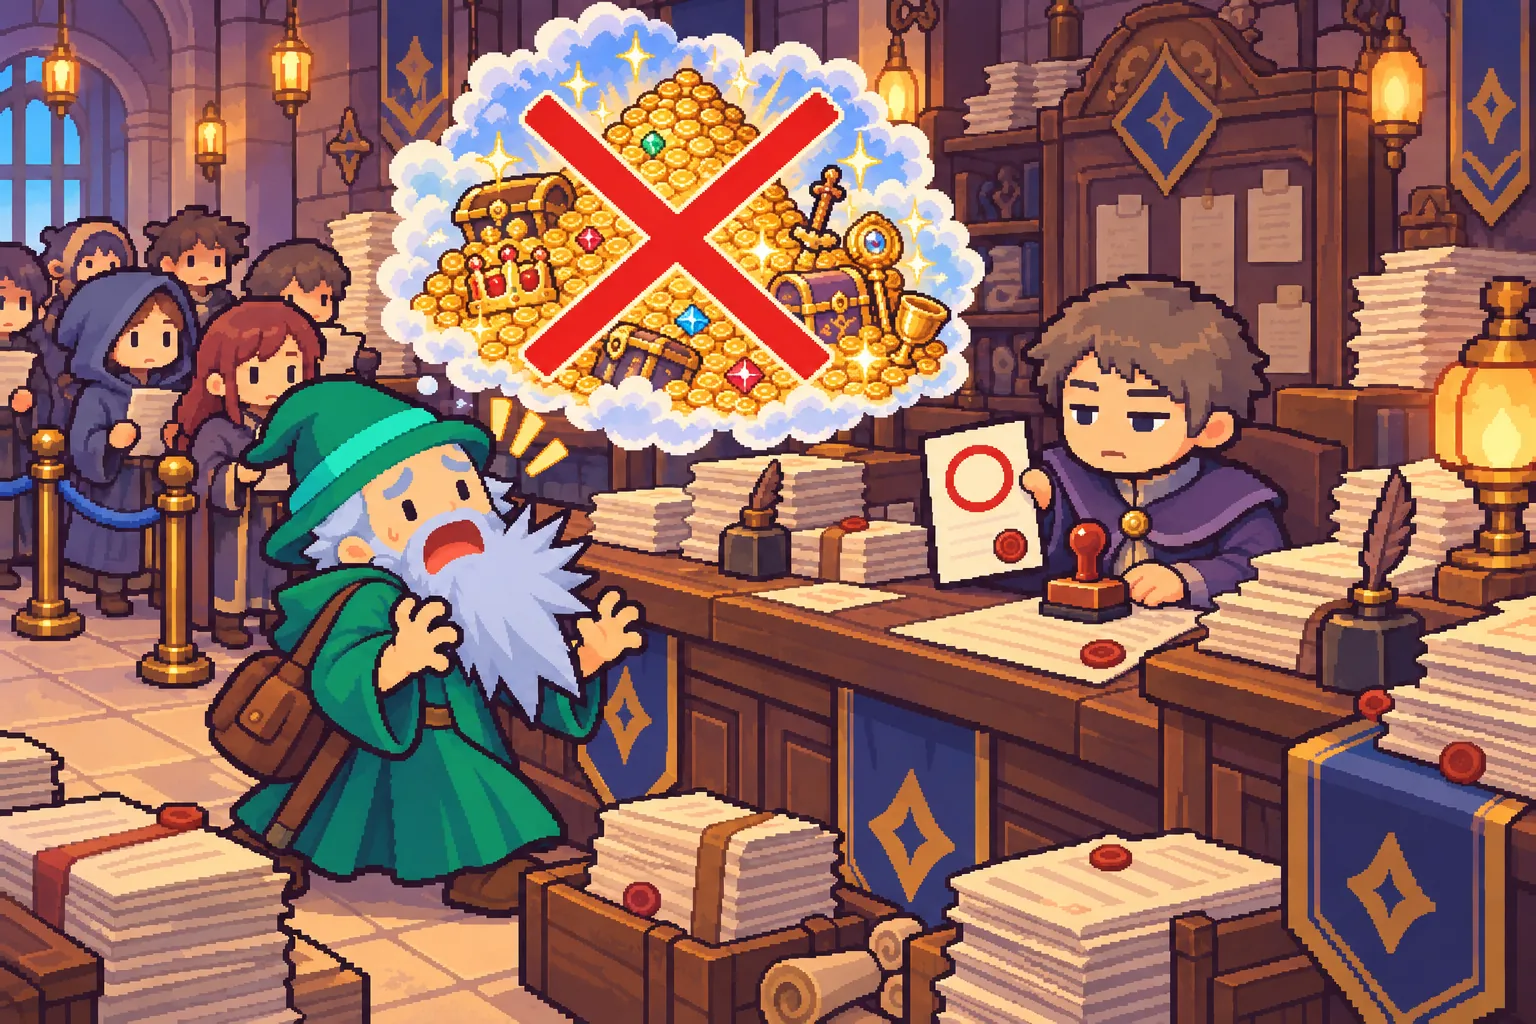
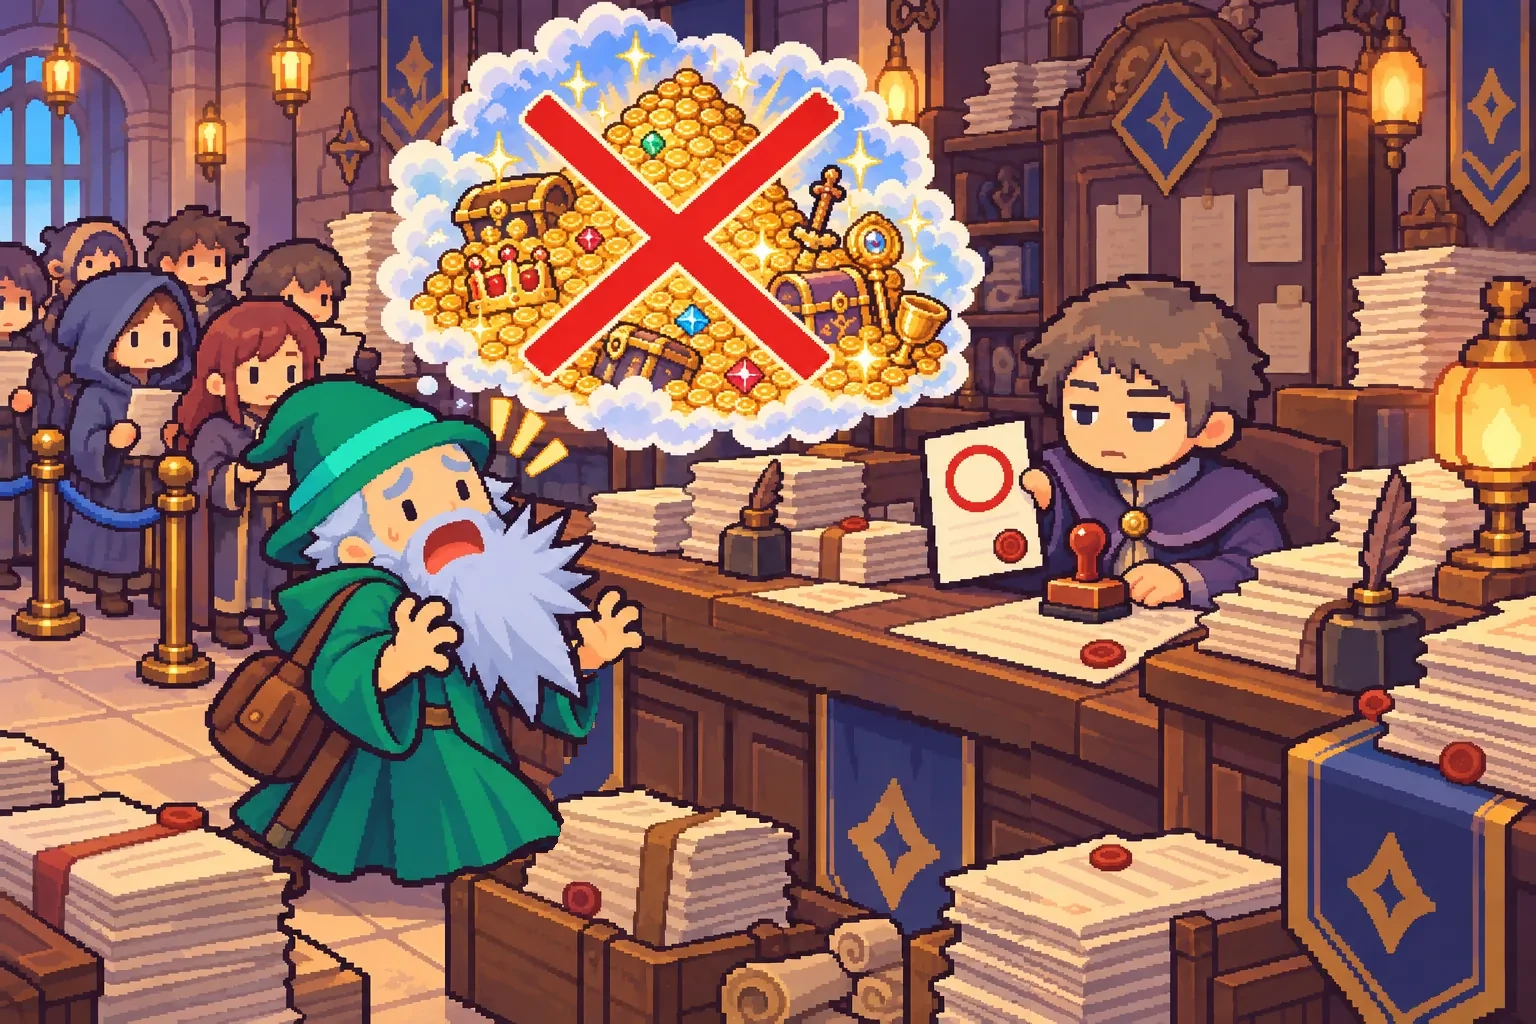
마법사 스토리 4컷: 학회 책상 앞면·깃발·서류 상자를 3컷과 같은 자리로 맞춤 (버전 20261102g)

Changed region(s): [[0.2812, 0.5938, 0.6875, 1.0]]

diff --git a/index.html b/index.html
@@ -8,27 +8,27 @@
   <meta name="mobile-web-app-capable" content="yes" />
   <title>서바이버 게임</title>
   <!-- 브라우저 탭 아이콘 (없으면 브라우저가 favicon.ico 를 찾다가 404 오류를 남김) -->
-  <link rel="icon" type="image/png" href="assets/hero_mage.png?v=20261102f" />
+  <link rel="icon" type="image/png" href="assets/hero_mage.png?v=20261102g" />
   <!-- 픽셀 글꼴: 제목 = Tiny5, 한글 = Galmuri11. 외부 서버 없이 assets/fonts 에서 받음 (style.css 의 @font-face). 미리 받기 시작해서 글자가 빨리 바뀜 -->
-  <link rel="preload" href="assets/fonts/Galmuri11.woff2?v=20261102f" as="font" type="font/woff2" crossorigin />
-  <link rel="preload" href="assets/fonts/Tiny5-Regular.ttf?v=20261102f" as="font" type="font/ttf" crossorigin />
+  <link rel="preload" href="assets/fonts/Galmuri11.woff2?v=20261102g" as="font" type="font/woff2" crossorigin />
+  <link rel="preload" href="assets/fonts/Tiny5-Regular.ttf?v=20261102g" as="font" type="font/ttf" crossorigin />
   <!-- ?v= : 올릴 때마다 바꾸는 버전 표시. 브라우저가 예전 코드·그림을 쓰지 않고 새로 받게 함 (js 의 그림·소리 주소는 js/01-setup.js 가 이 값을 따라 씀. 이 파일과 style.css 의 ?v= 는 모두 같이 바꿀 것) -->
-  <link rel="stylesheet" href="style.css?v=20261102f" />
+  <link rel="stylesheet" href="style.css?v=20261102g" />
 </head>
 <body>
   <!-- 게임이 그려지는 도화지 -->
   <div id="stage">
     <canvas id="game" width="1280" height="720"></canvas>
     <!-- ? 버튼: 무기 조합(진화)표와 무기 설명을 보여주는 도움말 (H 키로도 열림) -->
-    <button type="button" id="helpBtn" title="도움말 (H)"><img src="assets/help.png?v=20261102f" alt="?"></button>
+    <button type="button" id="helpBtn" title="도움말 (H)"><img src="assets/help.png?v=20261102g" alt="?"></button>
     <!-- 일시정지 버튼 (Esc·P 키로도 됨) -->
-    <button type="button" id="pauseBtn" title="일시정지 (Esc)"><img src="assets/pause.png?v=20261102f" alt="일시정지"></button>
+    <button type="button" id="pauseBtn" title="일시정지 (Esc)"><img src="assets/pause.png?v=20261102g" alt="일시정지"></button>
     <!-- 1.5배속 버튼 (상점에서 산 뒤 게임 화면에서만 보임) -->
-    <button type="button" id="speedBtn" title="1.5배속 켜기"><img src="assets/speed_off.png?v=20261102f" alt="1.5배속"></button>
+    <button type="button" id="speedBtn" title="1.5배속 켜기"><img src="assets/speed_off.png?v=20261102g" alt="1.5배속"></button>
     <!-- 설정 버튼 (맨 왼쪽 위, 시작 화면·게임 화면 공통) -->
-    <button type="button" id="settingsBtn" title="설정"><img src="assets/settings.png?v=20261102f" alt="설정"></button>
+    <button type="button" id="settingsBtn" title="설정"><img src="assets/settings.png?v=20261102g" alt="설정"></button>
     <!-- 지난 시간 · 처치 수 (게임 중에만 보임) -->
-    <div id="hudStats"><span><img src="assets/w_clock.png?v=20261102f" alt="시간"><span id="hudTime">00:00</span></span><span><img src="assets/item_wipe.png?v=20261102f" alt="처치"><span id="hudKills">0</span></span></div>
+    <div id="hudStats"><span><img src="assets/w_clock.png?v=20261102g" alt="시간"><span id="hudTime">00:00</span></span><span><img src="assets/item_wipe.png?v=20261102g" alt="처치"><span id="hudKills">0</span></span></div>
     <!-- 터치 조이스틱 (휴대폰에서 화면을 누르고 있는 동안만 보임) -->
     <div id="joyBase"></div><div id="joyKnob"></div>
     <!-- 스토리·매우 어려움 클리어 엔딩 공통 화면: 그림과 확정 자막을 한 컷씩 넘김 -->
@@ -45,13 +45,13 @@
 
       <div class="title-menu">
         <button type="button" id="continueBtn" class="pixel-btn primary">이어 하기</button>
-        <button type="button" id="startBtn" class="pixel-btn primary"><span class="btn-main"><img src="assets/sword.png?v=20261102f" alt="">게임 시작</span><span class="title-sub" id="titleSub"></span></button>
+        <button type="button" id="startBtn" class="pixel-btn primary"><span class="btn-main"><img src="assets/sword.png?v=20261102g" alt="">게임 시작</span><span class="title-sub" id="titleSub"></span></button>
         <div class="title-row">
-          <button type="button" class="pixel-btn small" data-panel="select"><img src="assets/hero_mage.png?v=20261102f" alt="">캐릭터·난이도</button>
-          <button type="button" class="pixel-btn small" data-panel="shop"><img src="assets/coin.png?v=20261102f" alt="">상점</button>
-          <button type="button" class="pixel-btn small" data-panel="quests"><img src="assets/chest.png?v=20261102f" alt=""><span>퀘스트</span></button>
-          <button type="button" class="pixel-btn small" data-panel="save"><img src="assets/potion_green.png?v=20261102f" alt="">기록·저장</button>
-          <button type="button" id="introBtn" class="pixel-btn small"><img src="assets/help.png?v=20261102f" alt="">게임 설명</button>
+          <button type="button" class="pixel-btn small" data-panel="select"><img src="assets/hero_mage.png?v=20261102g" alt="">캐릭터·난이도</button>
+          <button type="button" class="pixel-btn small" data-panel="shop"><img src="assets/coin.png?v=20261102g" alt="">상점</button>
+          <button type="button" class="pixel-btn small" data-panel="quests"><img src="assets/chest.png?v=20261102g" alt=""><span>퀘스트</span></button>
+          <button type="button" class="pixel-btn small" data-panel="save"><img src="assets/potion_green.png?v=20261102g" alt="">기록·저장</button>
+          <button type="button" id="introBtn" class="pixel-btn small"><img src="assets/help.png?v=20261102g" alt="">게임 설명</button>
         </div>
         <div class="title-hint">- PRESS ENTER -</div>
       </div>
@@ -59,11 +59,11 @@
       <div class="title-intro">
         <h2>게임 설명</h2>
         <div class="intro-grid">
-          <div class="intro-item"><img src="assets/hero_mage.png?v=20261102f" alt=""><div><b>이동</b><span class="kb-only"><kbd>W</kbd> <kbd>A</kbd> <kbd>S</kbd> <kbd>D</kbd> 또는 방향키로 움직입니다.</span><span class="touch-only">화면 아무 곳에 손가락을 대고 가고 싶은 쪽으로 끌면 움직입니다.</span> 공격은 자동으로 나가니 피하는 데만 집중하세요</div></div>
-          <div class="intro-item"><img src="assets/passive_growth.png?v=20261102f" alt=""><div><b>레벨 업</b>몬스터가 떨어뜨린 경험치 구슬을 모아 레벨을 올리고, 카드 중 하나를 골라 무기·아이템을 강화합니다</div></div>
-          <div class="intro-item"><img src="assets/chest.png?v=20261102f" alt=""><div><b>보물 상자</b>1분마다 나오는 금색 고리의 엘리트를 잡으면 상자가 떨어집니다. 무기와 짝 아이템을 최대 레벨로 올린 채 열면 무기가 진화합니다</div></div>
-          <div class="intro-item"><img src="assets/potion_green.png?v=20261102f" alt=""><div><b>바닥 아이템</b>물약은 체력 회복, 자석은 경험치 전부 흡수, 해골은 화면 안 적 전멸, 눈꽃은 적 빙결</div></div>
-          <div class="intro-item"><img src="assets/help.png?v=20261102f" alt=""><div><b>도움말</b>게임 중 <span class="kb-only"><kbd>H</kbd> 키나 </span>왼쪽 위 <b style="display:inline">?</b> 버튼으로 무기 조합표와 설명을 볼 수 있습니다</div></div>
+          <div class="intro-item"><img src="assets/hero_mage.png?v=20261102g" alt=""><div><b>이동</b><span class="kb-only"><kbd>W</kbd> <kbd>A</kbd> <kbd>S</kbd> <kbd>D</kbd> 또는 방향키로 움직입니다.</span><span class="touch-only">화면 아무 곳에 손가락을 대고 가고 싶은 쪽으로 끌면 움직입니다.</span> 공격은 자동으로 나가니 피하는 데만 집중하세요</div></div>
+          <div class="intro-item"><img src="assets/passive_growth.png?v=20261102g" alt=""><div><b>레벨 업</b>몬스터가 떨어뜨린 경험치 구슬을 모아 레벨을 올리고, 카드 중 하나를 골라 무기·아이템을 강화합니다</div></div>
+          <div class="intro-item"><img src="assets/chest.png?v=20261102g" alt=""><div><b>보물 상자</b>1분마다 나오는 금색 고리의 엘리트를 잡으면 상자가 떨어집니다. 무기와 짝 아이템을 최대 레벨로 올린 채 열면 무기가 진화합니다</div></div>
+          <div class="intro-item"><img src="assets/potion_green.png?v=20261102g" alt=""><div><b>바닥 아이템</b>물약은 체력 회복, 자석은 경험치 전부 흡수, 해골은 화면 안 적 전멸, 눈꽃은 적 빙결</div></div>
+          <div class="intro-item"><img src="assets/help.png?v=20261102g" alt=""><div><b>도움말</b>게임 중 <span class="kb-only"><kbd>H</kbd> 키나 </span>왼쪽 위 <b style="display:inline">?</b> 버튼으로 무기 조합표와 설명을 볼 수 있습니다</div></div>
         </div>
         <button type="button" id="introClose" class="pixel-btn">돌아가기</button>
       </div>
@@ -153,10 +153,10 @@
   <!-- 보물 상자 창 (엘리트를 잡고 상자를 열면 나타남. 룰렛이 돈 뒤 강화 결과를 보여줌) -->
   <div id="chestBox" class="popup">
     <h1>보물 상자!</h1>
-    <div id="chestGold"><img src="assets/coin.png?v=20261102f" alt="금화"><span id="chestGoldNum">0</span></div>
+    <div id="chestGold"><img src="assets/coin.png?v=20261102g" alt="금화"><span id="chestGoldNum">0</span></div>
     <div id="chestStage">
       <div id="chestBeam"></div>
-      <div id="chestFx"><i class="glow"></i><i class="burst"></i><img id="chestImg" src="assets/chest.png?v=20261102f" alt=""></div>
+      <div id="chestFx"><i class="glow"></i><i class="burst"></i><img id="chestImg" src="assets/chest.png?v=20261102g" alt=""></div>
       <div id="chestCoins"></div>
       <div id="chestOrbs"></div>
     </div>
@@ -178,19 +178,19 @@
     </div>
   </div>
 
-  <script src="js/01-setup.js?v=20261102f"></script>
-  <script src="js/02-rules.js?v=20261102f"></script>
-  <script src="js/03-weapons.js?v=20261102f"></script>
-  <script src="js/04-passives-enemies.js?v=20261102f"></script>
-  <script src="js/05-state-input.js?v=20261102f"></script>
-  <script src="js/06-spawn-combat.js?v=20261102f"></script>
-  <script src="js/07-update.js?v=20261102f"></script>
-  <script src="js/08-draw.js?v=20261102f"></script>
-  <script src="js/09-loop-windows.js?v=20261102f"></script>
-  <script src="js/09-story.js?v=20261102f"></script>
-  <script src="js/10-title.js?v=20261102f"></script>
-  <script src="js/11-meta-save.js?v=20261102f"></script>
-  <script src="js/12-sound.js?v=20261102f"></script>
-  <script src="js/13-start.js?v=20261102f"></script>
+  <script src="js/01-setup.js?v=20261102g"></script>
+  <script src="js/02-rules.js?v=20261102g"></script>
+  <script src="js/03-weapons.js?v=20261102g"></script>
+  <script src="js/04-passives-enemies.js?v=20261102g"></script>
+  <script src="js/05-state-input.js?v=20261102g"></script>
+  <script src="js/06-spawn-combat.js?v=20261102g"></script>
+  <script src="js/07-update.js?v=20261102g"></script>
+  <script src="js/08-draw.js?v=20261102g"></script>
+  <script src="js/09-loop-windows.js?v=20261102g"></script>
+  <script src="js/09-story.js?v=20261102g"></script>
+  <script src="js/10-title.js?v=20261102g"></script>
+  <script src="js/11-meta-save.js?v=20261102g"></script>
+  <script src="js/12-sound.js?v=20261102g"></script>
+  <script src="js/13-start.js?v=20261102g"></script>
 </body>
 </html>

diff --git a/style.css b/style.css
@@ -1,7 +1,7 @@
 /* 픽셀 글꼴 (SIL Open Font License, assets/fonts/OFL-*.txt). font-display: swap = 글꼴을 받는 동안 기본 글꼴로 먼저 보여 줌 */
-@font-face { font-family: "Galmuri11"; font-weight: 400; font-display: swap; src: url("assets/fonts/Galmuri11.woff2?v=20261102f") format("woff2"); }
-@font-face { font-family: "Galmuri11"; font-weight: 700; font-display: swap; src: url("assets/fonts/Galmuri11-Bold.woff2?v=20261102f") format("woff2"); }
-@font-face { font-family: "Tiny5"; font-weight: 400; font-display: swap; src: url("assets/fonts/Tiny5-Regular.ttf?v=20261102f") format("truetype"); }
+@font-face { font-family: "Galmuri11"; font-weight: 400; font-display: swap; src: url("assets/fonts/Galmuri11.woff2?v=20261102g") format("woff2"); }
+@font-face { font-family: "Galmuri11"; font-weight: 700; font-display: swap; src: url("assets/fonts/Galmuri11-Bold.woff2?v=20261102g") format("woff2"); }
+@font-face { font-family: "Tiny5"; font-weight: 400; font-display: swap; src: url("assets/fonts/Tiny5-Regular.ttf?v=20261102g") format("truetype"); }
 
 /* ===== 꾸미기 (화면 배경, 게임오버 창, 레벨업 창) ===== */
 body {
@@ -225,7 +225,7 @@ canvas {
 #gameover .run-reward:empty, #clearBox .run-reward:empty { display: none; }
 #gameover .run-reward::before, #clearBox .run-reward::before {   /* 첫 줄(금화) 앞 금화 그림 */
   content: ""; display: inline-block; width: 16px; height: 16px; margin-right: 6px; vertical-align: -2px;
-  background: url("assets/coin.png?v=20261102f") center / contain no-repeat; image-rendering: pixelated;
+  background: url("assets/coin.png?v=20261102g") center / contain no-repeat; image-rendering: pixelated;
 }
 /* 버튼: 시작 화면의 픽셀 버튼과 같은 모양 (주요 버튼은 노랑) */
 #gameover button, #clearBox button {
@@ -374,7 +374,7 @@ canvas {
 #chestFx { position: absolute; left: 50%; top: 78%; width: 96px; height: 96px; margin: -48px 0 0 -48px; }
 #chestImg { position: relative; display: block; width: 96px; height: 96px; image-rendering: pixelated; }
 #chestFx .burst, #chestFx .glow { position: absolute; left: 50%; top: 50%; pointer-events: none; opacity: 0; }
-#chestFx .burst { width: 224px; height: 224px; margin: -112px 0 0 -112px; background: url("assets/fx_star.png?v=20261102f") 0 0 / 1568px 224px no-repeat; image-rendering: pixelated; }
+#chestFx .burst { width: 224px; height: 224px; margin: -112px 0 0 -112px; background: url("assets/fx_star.png?v=20261102g") 0 0 / 1568px 224px no-repeat; image-rendering: pixelated; }
 #chestFx .glow { width: 200px; height: 200px; margin: -100px 0 0 -100px; border-radius: 50%;
   background: radial-gradient(circle, rgba(255, 214, 10, 0.9) 0%, rgba(255, 214, 10, 0.35) 40%, rgba(255, 214, 10, 0) 70%); }
 #chestStage.shaking #chestImg { animation: chestShake 0.16s linear infinite; }
@@ -383,7 +383,7 @@ canvas {
 #chestStage.open .glow { animation: chestGlow 0.7s ease-out forwards; }
 /* 상자에서 튀는 금화(금화가 섞였을 때) 또는 반짝이 */
 #chestCoins i { position: absolute; left: 50%; top: 74%; opacity: 0; pointer-events: none; animation: coinFly 1.1s cubic-bezier(0.2, 0.7, 0.4, 1) forwards; }
-#chestCoins i.coin { width: 20px; height: 20px; background: url("assets/coin.png?v=20261102f") center / contain no-repeat; image-rendering: pixelated; }
+#chestCoins i.coin { width: 20px; height: 20px; background: url("assets/coin.png?v=20261102g") center / contain no-repeat; image-rendering: pixelated; }
 #chestCoins i.spark { width: 7px; height: 7px; background: #fff3a0; box-shadow: 0 0 6px 2px rgba(255, 214, 10, 0.8); }
 /* 보상 구슬: 주황 구슬 뒤로 빛살이 돌고, 안의 그림이 슬롯처럼 돌다가 멈춤(landed). 진화는 보라, 금화는 금색 */
 .chest-orb { position: absolute; width: 58px; height: 58px; margin: 0; padding: 0; border: 3px solid #ffd9a8; border-radius: 50%; opacity: 0; cursor: pointer;
